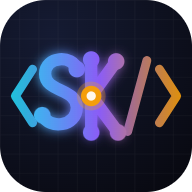
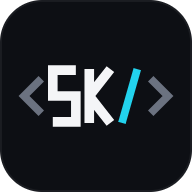
Brand: restrained terminal glyph — monochrome <SK />, geometric strokes, single cyan accent; calmer OG image and nav mark

diff --git a/assets/styles.css b/assets/styles.css
@@ -117,8 +117,8 @@ kbd { font-family: var(--mono); font-size: .68rem; padding: 2px 6px; border: 1px
 .logo { font-family: var(--mono); font-weight: 700; font-size: 1.05rem; color: var(--text); display: inline-flex; align-items: center; gap: 10px; }
 .logo:hover { color: var(--text); }
 .logo-mark { position: relative; width: 28px; height: 28px; flex-shrink: 0; }
-.logo-mark img { width: 28px; height: 28px; border-radius: 8px; display: block; box-shadow: 0 4px 14px var(--glow); transition: transform .4s var(--ease); }
-.logo:hover .logo-mark img { transform: rotate(-6deg) scale(1.06); }
+.logo-mark img { width: 28px; height: 28px; border-radius: 7px; display: block; border: 1px solid var(--border); transition: border-color .25s; }
+.logo:hover .logo-mark img { border-color: var(--border-strong); }
 .logo-text b { color: var(--accent); font-weight: 700; }
 .logo .dot { position: absolute; right: -3px; bottom: -3px; width: 9px; height: 9px; border-radius: 50%; background: var(--ok); border: 2px solid var(--bg); box-shadow: 0 0 0 0 color-mix(in oklab, var(--ok) 60%, transparent); animation: ping 2.4s ease-out infinite; }
 @keyframes ping { 0% { box-shadow: 0 0 0 0 color-mix(in oklab, var(--ok) 60%, transparent); } 70% { box-shadow: 0 0 0 9px transparent; } 100% { box-shadow: 0 0 0 0 transparent; } }
